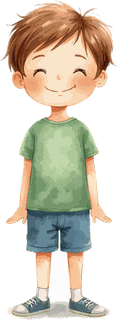
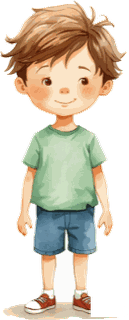
Boblehavet: drengen er den valgte kandidat
Projektets ejer valgte en anden af Canvas fire kandidater: aabne oejne og
roede sko. Baggrund og generatorens lille signatur ved skoen er fjernet.

Claude-Session: https://claude.ai/code/session_01JuJ2jhjKv5vpQpqD9x243Z

diff --git a/games/bobler/billeder/NOTICE.md b/games/bobler/billeder/NOTICE.md
@@ -10,9 +10,11 @@ aldrig med navnet paa en kunstner, en bog eller et spil). Canva giver den
 bruger, der laver et billede, ret til at bruge det, se Canvas Content License
 Agreement. Der er ingen tredjepartsfigurer i dem.
 
-Efterbehandling: den hvide baggrund er skaaret fra i kode, billedet er
+Efterbehandling: den hvide baggrund er skaaret fra i kode, en lille
+signatur, generatoren havde sat ved skoen, er fjernet, billedet er
 beskaaret til figuren, skaleret til 320 px paa den lange led og gemt som
-8-bit PNG med palet (Pillow).
+8-bit PNG med palet (Pillow). Drengen er den af de fire kandidater, som
+projektets ejer valgte.
 
 Der er ét billede pr. figur. Gang, svimmelhed og jubel laves i kode paa det
 ene billede (vip, hop, stjerner). Farven, barnet vaelger, er stadig maatten
